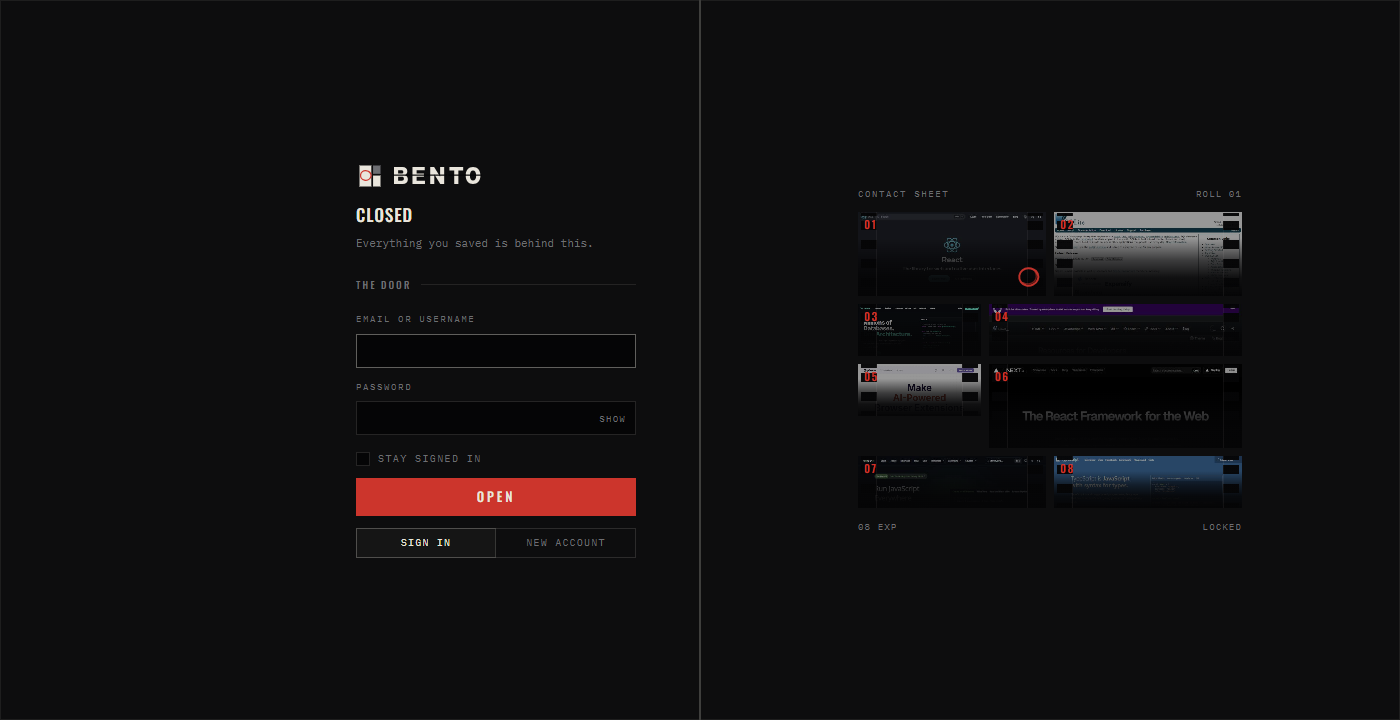
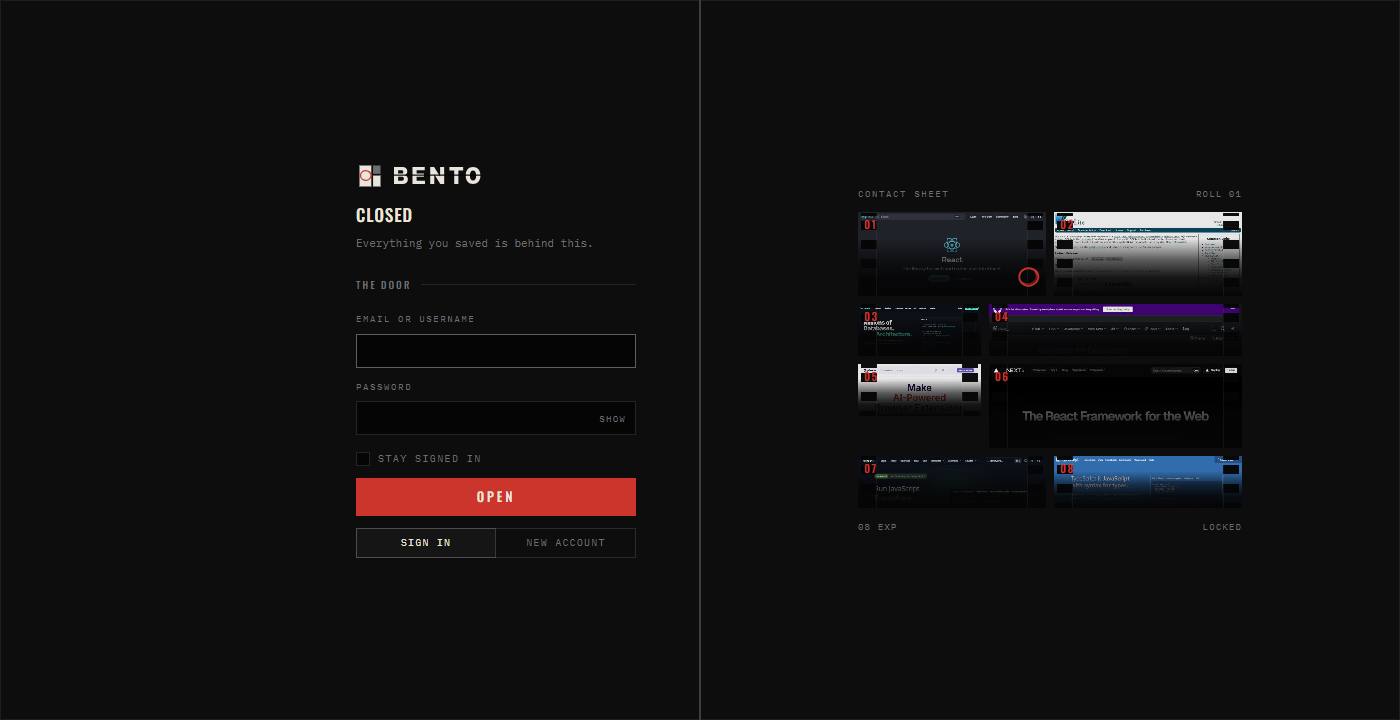
Stop crushing the decorative sheets toward black
The landing page hero and the lock lid were both using a filter stack
that opacity blended a screenshot at 0.82 over a solid black backdrop
and then pulled brightness down to 0.72 on top of that, meant to tame
the occasional bright documentation site. Most of the chosen sites are
already dark themed, so the same treatment was crushing them too, and
the result read as a gloomy black wash rather than a contact sheet of
real pages.

Backed both values off, opacity to 0.96 and brightness to 0.94, plus a
lighter hover state. The two scrim gradients already carry the frame
number and the host text, so the picture underneath was never actually
holding up any legibility that needed the extra darkening.

Regenerated the four readme screenshots against the fixed styles. Only
landing.png and lock.png changed in any visible way, since sheet.png
and arrange.png use the sheet's own held back tone rather than this
lit one.

diff --git a/website/app/globals.css b/website/app/globals.css
@@ -301,22 +301,25 @@
   }
 
   /*
-     Brought forward, but printed rather than pasted in.
+     Brought forward, close to how the page actually looks.
 
-     brightness is doing real work here and is not decoration. Half of any
-     honest set of real pages are white documentation sites, and a white
-     rectangle at this opacity reads as a hole burned in the lid rather than as
-     a frame on it. Pulling the highlights down keeps a bright page and a dark
-     one in the same register, which is what a contact sheet of one roll looks
-     like.
+     These are the first pictures anybody sees, on the landing page and the
+     lock screen, and they exist to look good rather than to stay out of the
+     way of a caption, which is the opposite job a real frame has. Full
+     opacity was tried at 0.82 with brightness pulled to 0.72 to tame the
+     occasional bright documentation site, and it did that, but it also
+     crushed every already dark screenshot toward black, which is most of
+     them. The result read as gloomy rather than as a contact sheet. A slight
+     dip is enough: the two scrim gradients already carry the number and the
+     host, so the picture itself is not holding up any text.
   */
   .frame-shot-lit {
-    --shot-dim: 0.82;
-    --shot-grey: 0.32;
+    --shot-dim: 0.96;
+    --shot-grey: 0.1;
   }
 
   .frame-shot-lit img {
-    filter: grayscale(var(--shot-grey)) contrast(1.04) brightness(0.72);
+    filter: grayscale(var(--shot-grey)) contrast(1.02) brightness(0.94);
   }
 
   .frame-hover:hover .frame-shot img {
@@ -332,8 +335,8 @@
      do nothing. That exact tie is what once stretched favicons across a plate.
   */
   .frame-hover:hover .frame-shot-lit img {
-    opacity: 0.95;
-    filter: grayscale(0.12) contrast(1.06) brightness(0.9);
+    opacity: 1;
+    filter: grayscale(0.02) contrast(1.04) brightness(1.02);
   }
 
   /* No capture. Unexposed stock with the site's own mark held in the middle,
